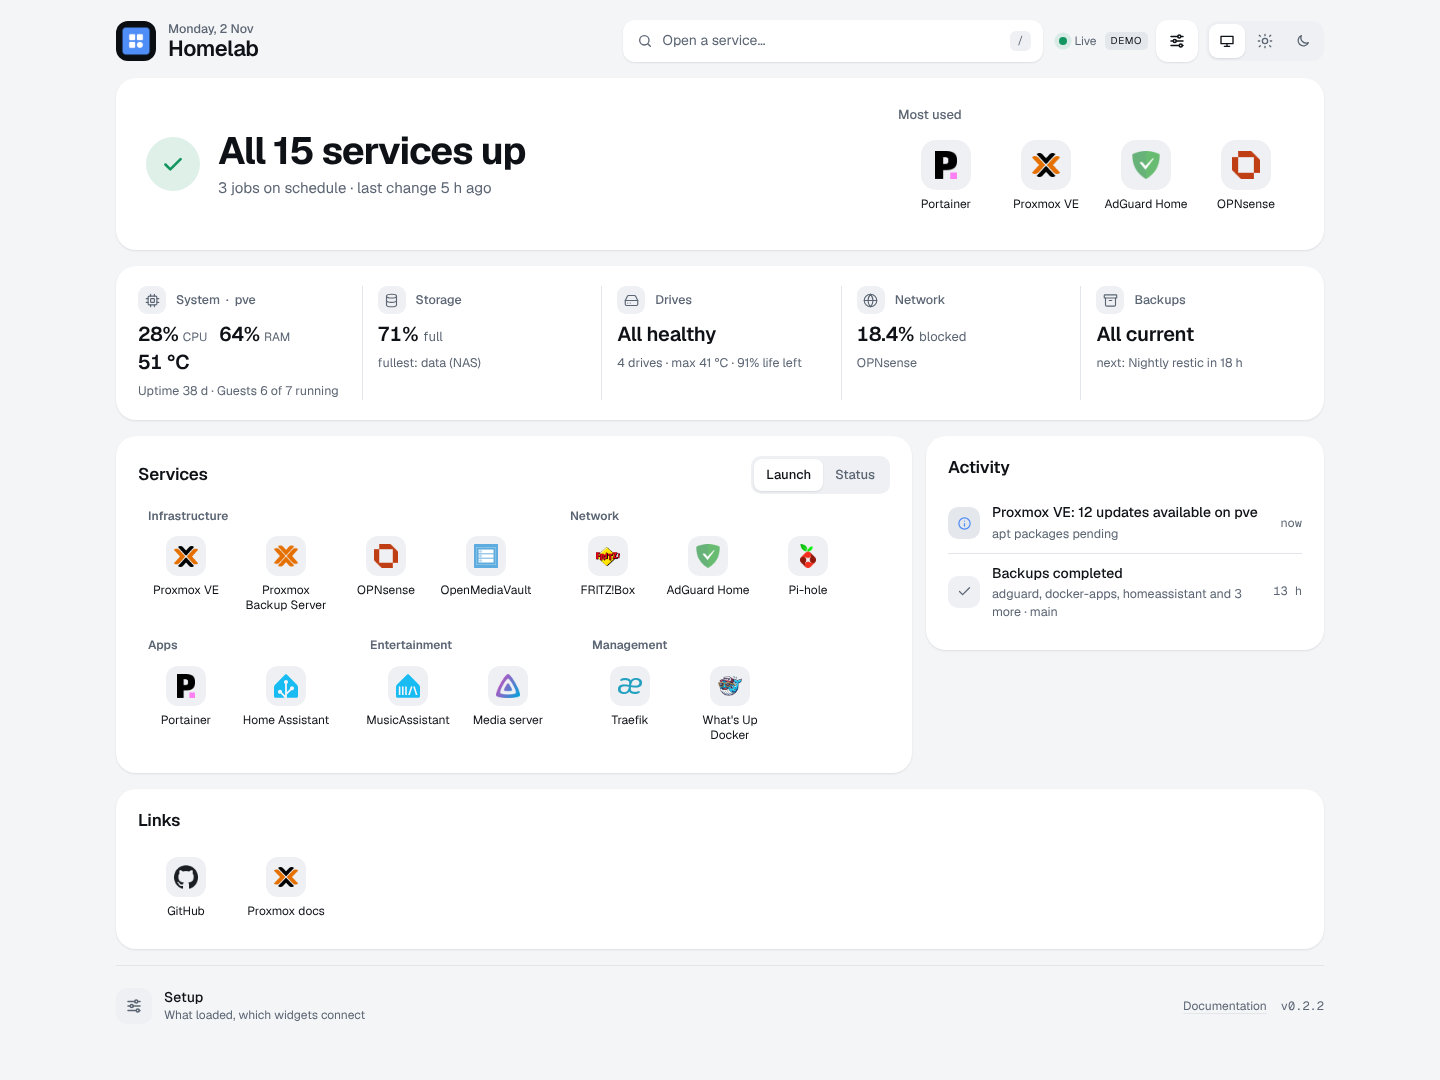
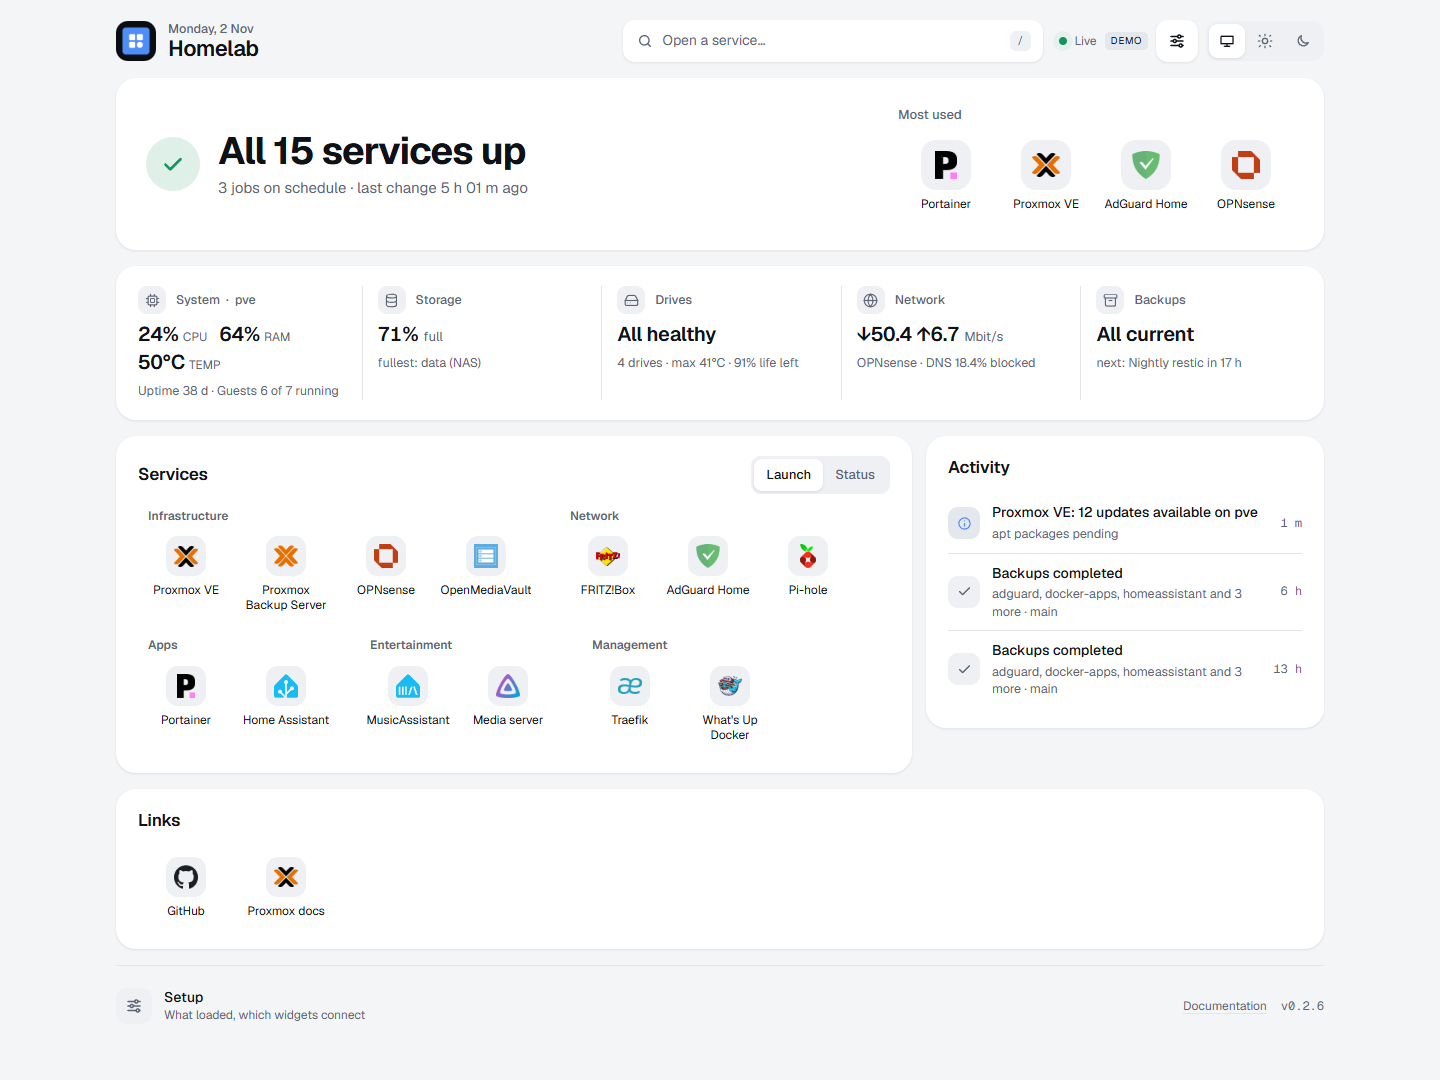
Phone infrastructure tiles, TEMP label; version 0.2.6
On phones the infrastructure card shows the areas as tiles, two to a row
(the first full width when the count is odd), with the label and figure
of the wide layout but without its context line: about 40% shorter.
System labels its temperature TEMP like CPU and RAM, and temperatures
read 53°C without a space. New README screenshots.

diff --git a/src/routes/+page.svelte b/src/routes/+page.svelte
@@ -107,7 +107,7 @@
         stats: [
           cpu && { k: 'CPU', v: `${cpu.val}%`, level: cpu.level },
           mem && { k: 'RAM', v: mem.pct != null ? `${Math.round(mem.pct)}%` : '—', level: mem.level },
-          temp && { k: '', v: `${temp.val} °C`, level: temp.level }
+          temp && { k: 'TEMP', v: `${temp.val}°C`, level: temp.level }
         ].filter((x) => !!x),
         level: worst(snap.host.gauges.map((x) => x.level))
       });
@@ -130,7 +130,7 @@
       out.push({
         id: 'drives', label: 'Drives',
         value: failing ? `${failing} failing` : check ? `${check} to check` : d.every((x) => x.status === 'ok') ? 'All healthy' : 'No problems',
-        sub: [`${d.length} drive${d.length === 1 ? '' : 's'}`, temps.length && `max ${Math.max(...temps)} °C`, lives.length && `${Math.min(...lives)}% life left`].filter(Boolean).join(' · '),
+        sub: [`${d.length} drive${d.length === 1 ? '' : 's'}`, temps.length && `max ${Math.max(...temps)}°C`, lives.length && `${Math.min(...lives)}% life left`].filter(Boolean).join(' · '),
         level: worst(d.flatMap((x) => [x.level, x.lifeLevel]))
       });
     }
@@ -421,7 +421,7 @@
     </section>
 
     {#if cards.length}
-      <!-- infrastructure and backups in one card: a row per area on phones, side by side when wide; a row opens its sheet -->
+      <!-- infrastructure and backups in one card: a row per area, side by side when wide, two tiles a row on phones; each opens its sheet -->
       <section class="card infra" aria-label="Infrastructure" style="--n: {cards.length}">
         <div class="irows">
         {#each cards as c (c.id)}
@@ -710,8 +710,8 @@
   /* a service with a problem: one small marker, its colour from the level; the launcher shows nothing else */
   .pmark { position: absolute; top: -3px; right: -3px; width: 12px; height: 12px; border-radius: 50%; background: var(--lv); box-shadow: 0 0 0 2px var(--surface); }
 
-  /* infrastructure and backups: one card, a row per area: its icon, then label, figure and context stacked, in every
-     layout; a column each when the card is wide */
+  /* infrastructure and backups: one card, a row per area: its icon, then label, figure and context stacked; a column
+     each when the card is wide, two tiles a row on phones */
   .infra { container: infra-sum / inline-size; padding: 6px; }
   .irows { display: flex; flex-direction: column; gap: 2px; }
   .irow {
@@ -863,6 +863,14 @@
     .lgroup, .lgroup .apps { display: contents; }
     .lgroup h3 { display: none; }
     .infra { border-radius: 22px; }
+    /* phones: the wide layout's columns as tiles, two a row (the first full width when the count is odd), without the
+       context line: the figure says what is wrong and a tap opens the rest */
+    .irows { display: grid; grid-template-columns: repeat(2, minmax(0, 1fr)); gap: 4px; }
+    .irow:first-child:nth-last-child(odd) { grid-column: 1 / -1; }
+    .irow { grid-template-columns: 26px minmax(0, 1fr); grid-template-areas: 'ic k' 'fig fig'; align-content: start; gap: 8px 10px; padding: 12px; background: var(--surface-2); }
+    .irow + .irow::before, .irow .s, .chev { display: none; }
+    .iico { align-self: center; width: 26px; height: 26px; border-radius: 8px; background: var(--surface); }
+    .iico :global(svg) { width: 14px; height: 14px; }
     .sec { padding: 16px; border-radius: 20px; }
     .sbeats, .up { display: none; }
     .seg button { min-height: 36px; }

diff --git a/README.md b/README.md
@@ -8,10 +8,10 @@ A self-hosted launcher and status page for a homelab on **any Docker host**: it 
 
 It is made for your **LAN or VPN** (WireGuard, Tailscale, …): it has no login of its own and must not be reachable from the internet.
 
-![Dashboard in dark mode with problems: the top problem with its Open button, the others that need attention, the most used services, the infrastructure card with a row per area, the launcher and recent activity](docs/screenshots/desktop-dark.png)
+![Dashboard in dark mode with problems: the top problem with its Open button, the others that need attention, the most used services, the infrastructure card with a column per area, the launcher and recent activity](docs/screenshots/desktop-dark.png)
 
 - **One glance.** One sentence gives the state ("All 15 services up · 3 jobs on schedule", or the most important problem with a button to open that service), then whatever else needs attention, most severe first. When all is well, the page is short and quiet.
-- **Infrastructure at a glance, details on demand.** One card with a row per area: **System** (CPU, memory, temperature of the Proxmox node or the machine the dashboard runs on), **Storage** (the fullest), **Drives** (SMART health, hottest drive, least life left), **Network** (WAN traffic, DNS block rate) and **Backups** (PBS and backup jobs, the next one due). A row opens a sheet with the full detail: 24-hour charts you can scrub through (CPU, memory, disk, temperature), every storage with its fill, grouped by the host or NAS it belongs to, every drive with SMART health, traffic charts, each job's schedule.
+- **Infrastructure at a glance, details on demand.** One card with an entry per area: **System** (CPU, memory, temperature of the Proxmox node or the machine the dashboard runs on), **Storage** (the fullest), **Drives** (SMART health, hottest drive, least life left), **Network** (WAN traffic, DNS block rate) and **Backups** (PBS and backup jobs, the next one due). Each one opens a sheet with the full detail: 24-hour charts you can scrub through (CPU, memory, disk, temperature), every storage with its fill, grouped by the host or NAS it belongs to, every drive with SMART health, traffic charts, each job's schedule. On a phone the areas become tiles, two to a row, showing just the figure.
 - **Launcher.** The services you open most, picked automatically, then every service with a link, grouped as in `services.yaml`, with nothing on an icon but a small marker when it has a problem. Press `/` or `⌘K` / `Ctrl+K` for the command palette.
 - **Checks.** Services are checked every 30 s over HTTP or `tcp://`, which gives uptime (24 h and 7 d), p95 latency and a 24-hour health strip; the **Status** view of the services, and each service's sheet, show them, and the sheet lists the service's events of the last 7 days. The dashboard also tracks certificate expiry, backup age per guest, failed or unhealthy containers, SMART status and pending Proxmox updates.
 - **Live and installable.** Updates are pushed to the browser as they happen, and a service whose status changes is briefly highlighted. If updates stop, the page says so and greys out instead of showing old data as current. It installs as an app (PWA) on phones and desktops, with the number of open problems on its icon, in light and dark themes.
@@ -24,9 +24,9 @@ It is made for your **LAN or VPN** (WireGuard, Tailscale, …): it has no login 
 
 ## Screenshots
 
-![Light mode with everything healthy: "All 15 services up", the most used services, the infrastructure card with a row per area, the launcher and recent activity](docs/screenshots/desktop-light.png)
+![Light mode with everything healthy: "All 15 services up", the most used services, the infrastructure card with a column per area, the launcher and recent activity](docs/screenshots/desktop-light.png)
 
-![On a phone: the top problem and the attention list in dark mode, and the Backups sheet with each job's schedule in light mode](docs/screenshots/phones.png)
+![On a phone: the top problem and the attention list in dark mode, and in light mode with everything healthy, the infrastructure tiles two to a row above the launcher](docs/screenshots/phones.png)
 
 Every screenshot shows the built-in demo data (`DEMO=1`), not a real homelab.
 
@@ -50,7 +50,7 @@ mkdir -p config && docker run --rm --user "$(id -u):$(id -g)" -v "$PWD/config:/s
 # compose.yaml
 services:
   dashboard:
-    image: matthabjan/homelab-dashboard:0.2.5 # pin a version, update deliberately
+    image: matthabjan/homelab-dashboard:0.2.6 # pin a version, update deliberately
     restart: unless-stopped
     ports:
       - 127.0.0.1:3000:3000 # localhost only; reach it from the LAN or VPN through a reverse proxy

diff --git a/CLAUDE.md b/CLAUDE.md
@@ -27,7 +27,7 @@ One Node process, no worker or external DB. `src/hooks.server.ts` starts a singl
 - **Fixtures** (`demo/<type>.ts`) are `"METHOD /path"` → `({ now, scenario, params, headers, body })` tables served by `fixtureTransport`. Demo mode and the tests use the same transport seam, so integrations run unchanged in both. `demoSources` only fakes what has no integration: probes, certificates, local host, temperatures, 24 h of seeded history.
 - **Checks** (`check.ts`): `record` turns a reading into check state, a history row and events; `status` gives the tile's level, line and alert. `siteMonitor` is probed over HTTP (<500 = up) or, for `tcp://host:port`, by connecting. **Heartbeats** (`heartbeat.ts`, `/api/heartbeat/<id>[/fail]`) are push checks: token compared on SHA-256 digests, 404 for an unknown id or a wrong token, 1 call/s per id; results live in `kv`.
 - **Snapshot** (`snapshot.ts`) holds the status rules: down after 2 failed probes, "slow" when the 1 h p95 exceeds `latencyWarnMs` with ≥10 samples, the certificate, storage and temperature thresholds, the verdict, the fleet strip. `build` runs one function per panel. Those that raise alerts (`configAlerts`, `serviceTiles`, `hostPanel`, `storagePanel`, `drivesPanel`) run before `round.close`, the rest (`applyWorst`, `networkPanel`, `fleetStrip`, `verdictFacts`, `mostUsedRow`) after. History queries go through `perMinute` (read once a minute per builder); live state is never cached. Tested through `build` in `snapshot.test.ts`, with inputs from `test-helpers.ts#snapshotInput`.
-- **Main page** (`+page.svelte`): the hero (`verdict`: one sentence, the top item's Open action, Most used), the other crit/warn items, one infrastructure card (a row each for System, Storage, Drives, Network and Backups; side by side when wide) and the services as a **Launch** grid (linked services only, a problem marker) or a **Status** list (every service and job with its line and strip). Details live in sheets (`Sheet.svelte`, a modal `<dialog>`): a service (with its 7-day events from `/api/events?sid=`), infrastructure (`Infrastructure.svelte`), backups (`jobs`, `backups`) and activity (`events`). Info items are notes in Activity, not problems. Phones show the same order without a tab bar.
+- **Main page** (`+page.svelte`): the hero (`verdict`: one sentence, the top item's Open action, Most used), the other crit/warn items, one infrastructure card (a row each for System, Storage, Drives, Network and Backups; side by side when wide, two tiles a row without the context line on phones) and the services as a **Launch** grid (linked services only, a problem marker) or a **Status** list (every service and job with its line and strip). Details live in sheets (`Sheet.svelte`, a modal `<dialog>`): a service (with its 7-day events from `/api/events?sid=`), infrastructure (`Infrastructure.svelte`), backups (`jobs`, `backups`) and activity (`events`). Info items are notes in Activity, not problems. Phones show the same order without a tab bar.
 - **Attention** (`attention.ts`): `begin(now)` → `raise({ sev, key, title, service | source })` → `close(events)`; raising after close throws. It names, ages (by key, never by title) and orders alerts, and gives the headline, the feed, `needCount` and `worst(sid)`. `Alert.key` is required and unique per widget result (`integrations.test.ts` checks it).
 - **Config** (`config.ts`): `loadConfig()` deep-merges `settings.yaml` over `DEFAULT_SETTINGS`; intervals below their minimum become problems. `${NAME}` and `{{HOMEPAGE_VAR_NAME}}` resolve from the env, then `NAME_FILE`, then `/run/secrets/<name lowercase>`. A broken file keeps its last version and is recorded as a problem. Missing secrets are recorded by name (not in demo mode).
 - **Config view** (`/config`, `config-view.ts`) is read-only and **allowlist only**: type, URL origin, per-type `SAFE_OPTIONS`, status. `config-view.test.ts` fails if any configured secret reaches the page data. The page (titled Setup) checks the configuration, not service health: it joins `widgets`, `checks` and `icons` onto `services` (one row per service) and shows settings that differ from the default first.

diff --git a/CONTEXT.md b/CONTEXT.md
@@ -28,7 +28,7 @@ Terms used in the code and in design discussions.
 
 **Verdict** — the hero's sentence: "All 15 services up" (with jobs, backups and expiring certificates as context), or the top attention item with an Open action for its service.
 
-**Infrastructure** — the card under the hero: a row each for System, Storage, Drives, Network and Backups, with an icon, one figure and a line of context (side by side when the page is wide). A row opens the Infrastructure sheet at its tab: System (the host's gauges and 24 h charts), Storage and Drives (grouped by the host or service that reports them) and Network; Backups opens its own sheet. A tab is marked with the worst level in its panel; only panels with data get a tab.
+**Infrastructure** — the card under the hero: a row each for System, Storage, Drives, Network and Backups, with an icon, one figure and a line of context (side by side when the page is wide; on phones tiles two to a row, without the line of context). A row opens the Infrastructure sheet at its tab: System (the host's gauges and 24 h charts), Storage and Drives (grouped by the host or service that reports them) and Network; Backups opens its own sheet. A tab is marked with the worst level in its panel; only panels with data get a tab.
 
 **Sheet** — a panel over the page with the details of one thing (a service with its own activity, infrastructure, backups, activity): a side panel on desktop, a bottom sheet on phones that a pull down from its top closes (the close button stays as the tap alternative). Sheets stack: one opened from inside another (Backups → a job) is a level deeper, with a back button; each level is a history entry, so back (browser, Android, Esc) goes up one level, and closing closes all. The page itself stays short.
 

diff --git a/docs/integrations.md b/docs/integrations.md
@@ -326,7 +326,7 @@ If the response isn't JSON (a login page, for example), the status line shows *S
 
 ## Drives
 
-The **Drives** row of the infrastructure card, and the **Drives** tab of its sheet, sit next to **Storage**: Storage shows how full each storage is, Drives how healthy the physical disks are. Both appear as soon as a widget reports drives, grouped by the host or service that reports them; a drive to check turns the row amber.
+The **Drives** row of the infrastructure card, and the **Drives** tab of its sheet, sit next to **Storage**: Storage shows how full each storage is, Drives how healthy the physical disks are. Both appear as soon as a widget reports drives, grouped by the host or service that reports them; a drive to check turns it amber.
 
 | Source | Drives |
 |---|---|

diff --git a/docs/deployment.md b/docs/deployment.md
@@ -30,7 +30,7 @@ In Portainer, open **Stacks → Add stack → Web editor** and paste:
 ```yaml
 services:
   dashboard:
-    image: matthabjan/homelab-dashboard:0.2.5  # pin a release; see Updating
+    image: matthabjan/homelab-dashboard:0.2.6  # pin a release; see Updating
     container_name: dashboard
     restart: unless-stopped
     environment:
